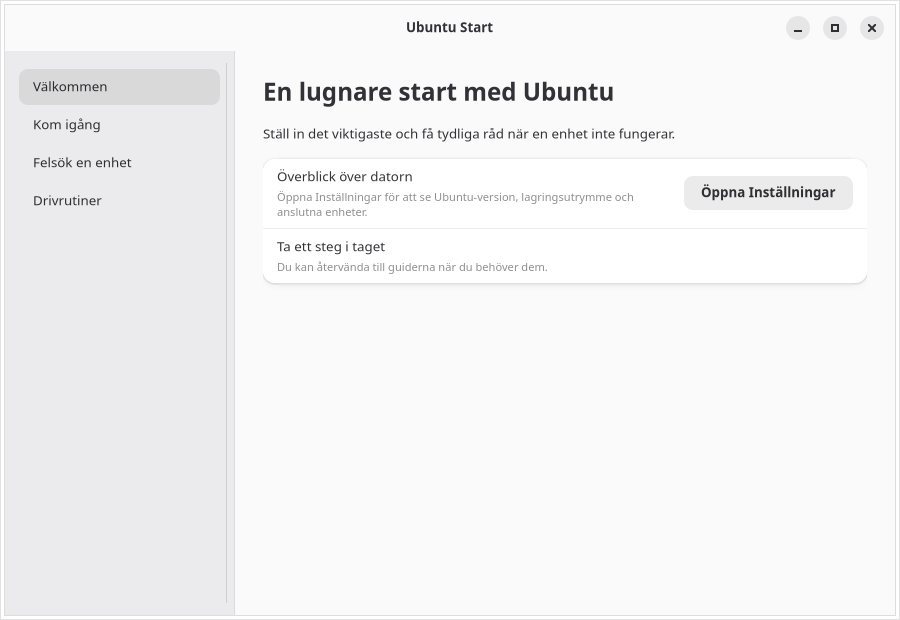
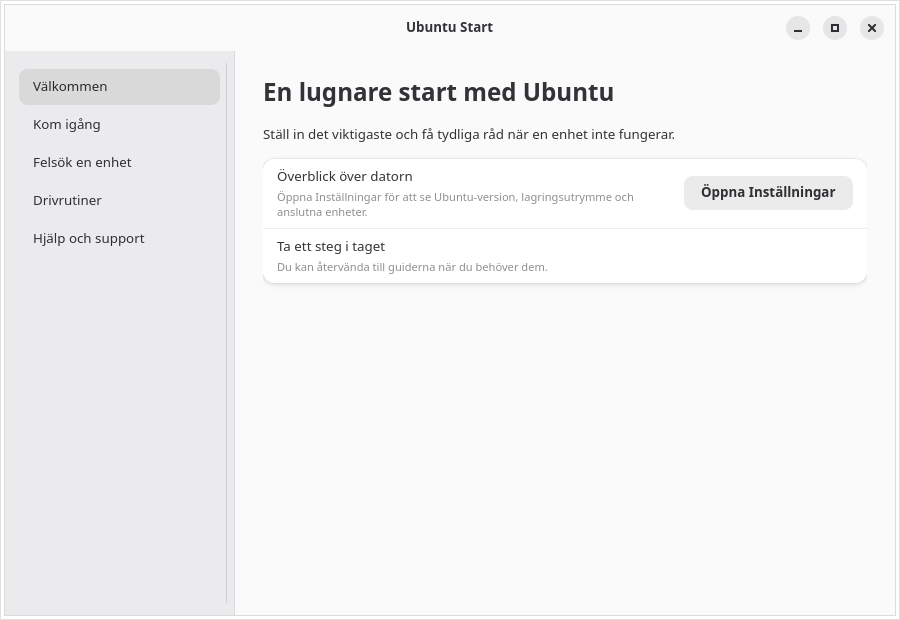
Add searchable troubleshooting and support tools

diff --git a/src/ubuntu_start.py b/src/ubuntu_start.py
@@ -3,11 +3,12 @@
 import gettext
 import locale
 import os
+import platform
 import gi
 
 gi.require_version("Adw", "1")
 gi.require_version("Gtk", "4.0")
-from gi.repository import Adw, Gio, GLib, Gtk
+from gi.repository import Adw, Gdk, Gio, GLib, Gtk
 
 APP_ID = "se.nylander.UbuntuStart"
 DOMAIN = "ubuntu-start"
@@ -94,6 +95,7 @@ class UbuntuStart(Adw.Application):
             (_("Get started"), self.make_get_started()),
             (_("Fix a device"), self.make_device_page()),
             (_("Drivers"), self.make_drivers()),
+            (_("Help and support"), self.make_help()),
         ]
         for name, page in pages:
             scroller = Gtk.ScrolledWindow(hscrollbar_policy=Gtk.PolicyType.NEVER)
@@ -102,14 +104,15 @@ class UbuntuStart(Adw.Application):
         stack.set_visible_child_name(pages[0][0])
         win.present()
 
-    def page(self, title, subtitle=None):
+    def page(self, title, subtitle=None, include_rows=True):
         box = Gtk.Box(orientation=Gtk.Orientation.VERTICAL, spacing=16)
         heading = Gtk.Label(label=title, xalign=0, wrap=True, css_classes=["title-1"])
         box.append(heading)
         if subtitle:
             box.append(Gtk.Label(label=subtitle, xalign=0, wrap=True, css_classes=["body"]))
         rows = Gtk.ListBox(selection_mode=Gtk.SelectionMode.NONE, css_classes=["boxed-list"])
-        box.append(rows)
+        if include_rows:
+            box.append(rows)
         return box, rows
 
     def row(self, parent, title, subtitle, action_label=None, callback=None):
@@ -149,9 +152,16 @@ class UbuntuStart(Adw.Application):
             self.open_app(value)
 
     def make_device_page(self):
-        box, _rows = self.page(_("Fix a device"), _("Choose a device and try these checks in order. They do not install software or change system files."))
+        box, _rows = self.page(
+            _("Fix a device"),
+            _("Choose a device or search all guides for a symptom. These checks do not install software or change system files."),
+            include_rows=False,
+        )
+        search = Gtk.SearchEntry(placeholder_text=_("Search all troubleshooting steps"))
+        box.append(search)
+        browse = Gtk.Box(orientation=Gtk.Orientation.VERTICAL, spacing=12)
         chooser = Gtk.DropDown.new_from_strings([title for title, _panel, _steps in GUIDES])
-        box.append(chooser)
+        browse.append(chooser)
         steps_stack = Gtk.Stack(transition_type=Gtk.StackTransitionType.CROSSFADE)
         for index, (_title, _panel, steps) in enumerate(GUIDES):
             group = Gtk.Box(orientation=Gtk.Orientation.VERTICAL, spacing=8)
@@ -161,15 +171,46 @@ class UbuntuStart(Adw.Application):
                 rows.append(Adw.ActionRow(title=step_title, subtitle=description))
             group.append(rows)
             steps_stack.add_named(group, f"guide-{index}")
-        box.append(steps_stack)
+        browse.append(steps_stack)
+        box.append(browse)
+
+        results = Gtk.Box(orientation=Gtk.Orientation.VERTICAL, spacing=8)
+        result_rows = Gtk.ListBox(selection_mode=Gtk.SelectionMode.NONE, css_classes=["boxed-list"])
+        results.append(result_rows)
+        no_results = Gtk.Label(label=_("No matching steps. Try another word."), xalign=0, wrap=True)
+        results.append(no_results)
+        results.set_visible(False)
+        box.append(results)
+
         open_button = Gtk.Button(label=_("Open related Settings"), halign=Gtk.Align.START)
-        box.append(open_button)
-        def update(*_):
+        browse.append(open_button)
+
+        def update_guide(*_):
             selected = chooser.get_selected()
             if selected < len(GUIDES):
                 steps_stack.set_visible_child_name(f"guide-{selected}")
-        chooser.connect("notify::selected", update)
-        update()
+
+        def update_search(*_):
+            query = search.get_text().strip().casefold()
+            browse.set_visible(not query)
+            results.set_visible(bool(query))
+            while (child := result_rows.get_first_child()) is not None:
+                result_rows.remove(child)
+            if not query:
+                return
+            terms = query.split()
+            count = 0
+            for guide_title, _panel, steps in GUIDES:
+                for step_title, description in steps:
+                    searchable = f"{guide_title} {step_title} {description}".casefold()
+                    if all(term in searchable for term in terms):
+                        result_rows.append(Adw.ActionRow(title=f"{guide_title}: {step_title}", subtitle=description))
+                        count += 1
+            no_results.set_visible(count == 0)
+
+        chooser.connect("notify::selected", update_guide)
+        search.connect("search-changed", update_search)
+        update_guide()
         open_button.connect("clicked", lambda *_: self.open_app("gnome-control-center", GUIDES[chooser.get_selected()][1]))
         return box
 
@@ -179,6 +220,57 @@ class UbuntuStart(Adw.Application):
         self.row(rows, _("Secure Boot"), _("Some drivers need a one-time confirmation during restart when Secure Boot is enabled. Follow Ubuntu’s on-screen instructions."))
         self.row(rows, _("Need more detail?"), _("Ubuntu’s driver guidance explains the supported installation route."), _("Open Ubuntu help"), lambda: self.open_uri("https://ubuntu.com/desktop/docs/en/latest/how-to/graphics/install-nvidia-drivers/"))
         return box
+
+    def system_details(self):
+        try:
+            os_info = platform.freedesktop_os_release()
+            os_name = os_info.get("PRETTY_NAME", _("Unknown Ubuntu version"))
+        except (AttributeError, OSError):
+            os_name = _("Unknown Ubuntu version")
+        desktop = os.environ.get("XDG_CURRENT_DESKTOP", "GNOME").replace(":", ", ")
+        details = [
+            (_("Ubuntu version"), os_name),
+            (_("Desktop"), desktop),
+            (_("Kernel"), platform.release()),
+            (_("Architecture"), platform.machine()),
+        ]
+        return details
+
+    def make_help(self):
+        box, rows = self.page(
+            _("Help and support"),
+            _("Find trusted instructions and prepare useful details when you ask others for help."),
+        )
+        self.row(rows, _("Ubuntu Desktop guide"), _("Official help for settings, accessibility, networks and common tasks."), _("Open guide"), lambda: self.open_uri("https://help.ubuntu.com/stable/ubuntu-help/"))
+        self.row(rows, _("Ask Ubuntu"), _("Search community answers or ask a focused question about Ubuntu."), _("Open Ask Ubuntu"), lambda: self.open_uri("https://askubuntu.com/"))
+        self.row(rows, _("Ubuntu community forum"), _("Get help from Ubuntu users and community members."), _("Open forum"), lambda: self.open_uri("https://discourse.ubuntu.com/c/support-and-help/306"))
+
+        details_box, details_rows = self.page(
+            _("System details"),
+            _("These read-only details can help explain a problem. They omit your username, computer name, network address and installed applications."),
+        )
+        for label, value in self.system_details():
+            self.row(details_rows, label, value)
+        copy_status = Gtk.Label(label="", xalign=0, wrap=True)
+        copy_button = Gtk.Button(label=_("Copy system details"), halign=Gtk.Align.START)
+        copy_button.connect("clicked", lambda *_: self.copy_system_details(copy_status))
+        details_box.append(copy_button)
+        details_box.append(copy_status)
+        box.append(details_box)
+
+        tips_box, tips_rows = self.page(_("When asking for help"))
+        self.row(tips_rows, _("Describe what happened"), _("Include your Ubuntu version, the device model, the exact error and what you already tried. Remove passwords and other personal details."))
+        box.append(tips_box)
+        return box
+
+    def copy_system_details(self, status_label):
+        display = Gdk.Display.get_default()
+        if display is None:
+            status_label.set_text(_("Clipboard is unavailable."))
+            return
+        report = "\n".join(f"{label}: {value}" for label, value in self.system_details())
+        display.get_clipboard().set(report)
+        status_label.set_text(_("System details copied."))
 
     def open_app(self, executable, *args):
         try:

diff --git a/README.md b/README.md
@@ -1,10 +1,18 @@
 # Ubuntu Start
 
-A Swedish-first Ubuntu Desktop companion for first-run setup and device troubleshooting.
+An English-language Ubuntu Desktop guide with Swedish localization for first-run setup and device troubleshooting.
 
-![Ubuntu Start welcome screen in Swedish](screenshots/welcome-sv.png)
+![Ubuntu Start welcome screen in English](screenshots/welcome-en.png)
 
-[More screenshots](screenshots/)
+The interface uses English by default and switches to Swedish when the desktop language is Swedish.
+
+[Swedish welcome screen](screenshots/welcome-sv.png) · [More screenshots](screenshots/)
+
+![Search results for printer troubleshooting](screenshots/search-en.png)
+
+![Ubuntu help links and privacy-conscious system summary](screenshots/help-en.png)
+
+![The help page in Swedish](screenshots/help-sv.png)
 
 
 Ubuntu Start combines a first-run guide with practical device troubleshooting for Ubuntu Desktop. It is a GTK 4/libadwaita application intended for Ubuntu GNOME.
@@ -12,7 +20,9 @@ Ubuntu Start combines a first-run guide with practical device troubleshooting fo
 ## Current scope
 
 - First steps for language, networking, updates, sound, display and privacy.
-- Guided checks for sound, Bluetooth, printers, displays/graphics, Wi-Fi and cameras.
+- Search across guided checks for sound, Bluetooth, printers, displays/graphics, Wi-Fi and cameras.
+- Built-in links to official Ubuntu documentation, Ask Ubuntu and the Ubuntu support forum.
+- A privacy-conscious system summary you can copy when asking for help; it excludes your username, computer name, network address and installed applications.
 - Links into GNOME Control Center and Ubuntu's Additional Drivers tool. System changes remain in Ubuntu's own tools and require the user's confirmation.
 - gettext-based localization with English source strings and a complete Swedish (`sv`) catalog.
 
@@ -39,13 +49,13 @@ The app expects GTK 4, libadwaita and PyGObject. It has been installed and launc
 
 ## Validation
 
-On the Ubuntu 26.10 machine `trv2`, Meson configured, compiled and installed the app in the standard `/usr` application paths. The installed Python module matches the transferred source. The real desktop launcher was validated, and the installed GTK 4/libadwaita app was inspected under Xvfb with `sv_SE.utf8`; runtime inspection confirmed the Swedish welcome heading, all four navigation pages and all six device guides. The locale catalog compiled cleanly with 86 translated messages, and the desktop entry and AppStream metadata include Swedish text.
+On the Ubuntu 26.10 machine `trv2`, Meson configured, compiled and installed the app in the standard `/usr` application paths. The installed Python module matches the transferred source. The real desktop launcher was validated, and the installed GTK 4/libadwaita app was inspected under Xvfb with `sv_SE.utf8`; runtime inspection confirmed the Swedish welcome heading, all five navigation pages and all six device guides. English and Swedish launches showed their respective catalogs; searching for “printer” returned the four matching checks. The Help page displayed the system summary and support links in both languages. The locale catalog compiled cleanly with 113 translated messages, and the desktop entry and AppStream metadata include Swedish text.
 
 The GNOME Control Center panel list on the target confirms the app's Bluetooth, Wi-Fi, printer, display, privacy and sound panel identifiers; the language/keyboard entry uses the current `keyboard` panel ID. Both Ubuntu driver/update utilities were downloaded as `.deb` packages and installed with `dpkg -i`, together with their dependencies. `Software & Updates --open-tab=4` opened the Swedish Additional Drivers tab under Xvfb; the target currently reports that no proprietary drivers are in use. Update Manager displayed its Swedish updates screen. `dpkg --audit` is clean and `apt-get check` reports no dependency errors. A final check found no pending upgrades and no reboot-required marker. GUI inspection ran under Xvfb, which cannot verify hardware acceleration or physical-device behavior.
 
 ## Localization
 
-Source strings are English and are marked with gettext's `_()` function. Swedish translations live in `po/sv.po`; add language codes to `po/LINGUAS` and translate through Weblate or another gettext-compatible service. Regenerate the template with `xgettext` and validate catalogs with `msgfmt --check`.
+English is the source and default language. The app uses the desktop locale to select translations; Swedish strings live in `po/sv.po`. Add more languages through gettext catalogs and list their language codes in `po/LINGUAS`. Regenerate the template with `xgettext` and validate catalogs with `msgfmt --check`.
 
 ## Current limitations
 
@@ -58,4 +68,4 @@ Tagged versions (`v*`) are built and published by GitHub Actions. Each release i
 
 ## Screenshots
 
-The screenshots show the Swedish welcome page and Ubuntu Software & Updates additional drivers tab. The latter was captured while Ubuntu was still scanning for available drivers.
+The screenshots include the English default welcome page, the Swedish translation and Ubuntu Software & Updates. The driver-tool capture was taken while Ubuntu was still scanning for available drivers.
